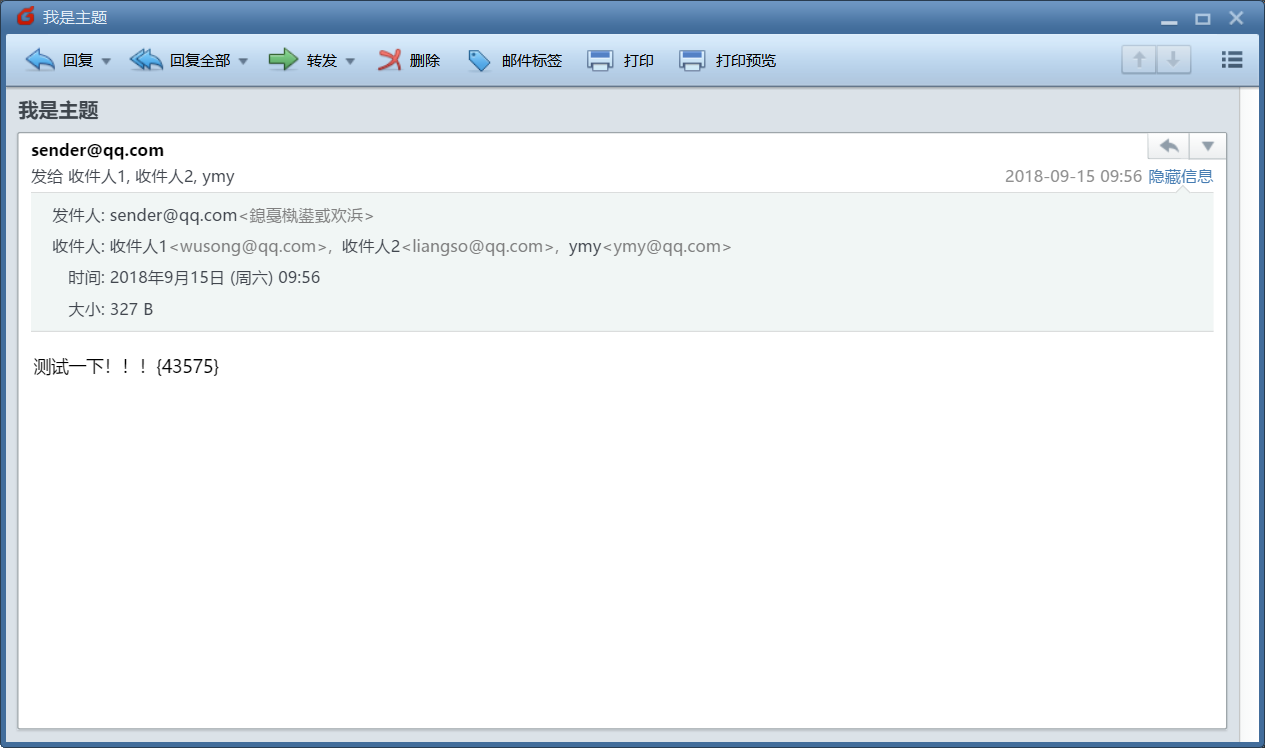
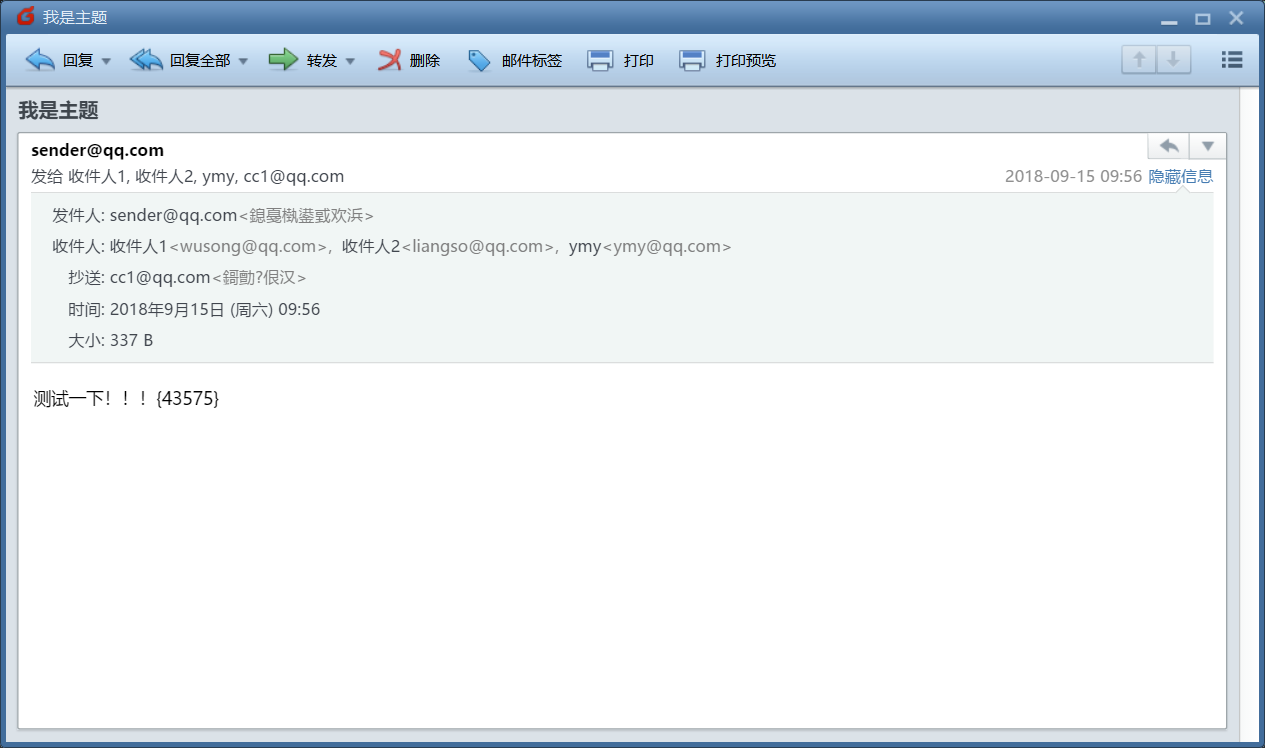
修改抄送人

Changed region(s): [[0.0308, 0.3382, 0.2466, 0.5535], [0.185, 0.2152, 0.2775, 0.246]]

diff --git a/eml/index.php b/eml/index.php
@@ -6,7 +6,7 @@ $json = '{
     "sender_name": "我是发件人",
     "to_name": "收件人1,收件人2,ymy",
     "to_list": "wusong@qq.com,liangso@qq.com,ymy@qq.com",
-    "cc_list": "cc1",
+    "cc_list": "抄送人",
     "cc_name": "cc1@qq.com",
     "title": "我是主题",
     "content": "<p>测试一下！！！{43575}<br></p>",
@@ -37,6 +37,7 @@ foreach ($toName as $k => $name){
 $ccName = explode(',', $mailDetail['cc_name']);
 $ccEmail = explode(',', $mailDetail['cc_list']);
 if(!empty($ccName)){
+    $str .= "Cc: ";
     foreach ($ccName as $k => $name){
         $str .= "$name <$ccEmail[$k]>";
         if($k+1 != count($ccName)){

diff --git a/eml/README.md b/eml/README.md
@@ -9,5 +9,7 @@
 ---------------
 
 以下问题待修复：
-- 邮件发件人名称中文乱码
+- 邮件发件人名称和抄送人名称中文乱码
 - 邮件附件没有加进去
+
+![]('./mail.png')
